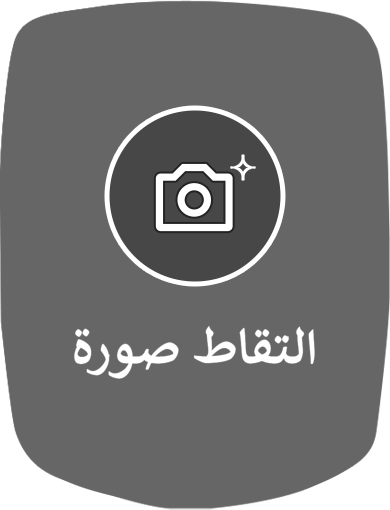
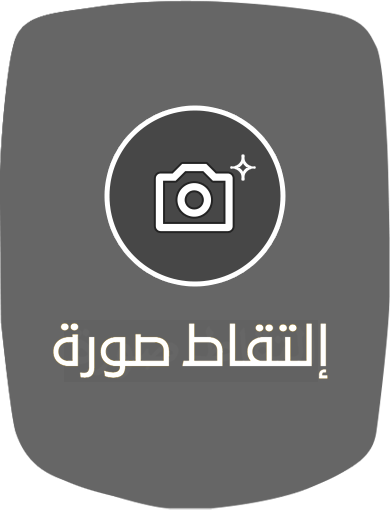
Updates
Updates

Changed region(s): [[0.1231, 0.6176, 0.8615, 0.7647]]

diff --git a/Scripts/lang.js b/Scripts/lang.js
@@ -21,7 +21,7 @@ $(document).ready(function(){
                 $('#content_flights').html("معلومات الرحلات");
                 $('#content_scan').html("مرر تذكرة صعود الطائرة");
                 $('#content_avatar').html("الصّورة الرّمزية");
-                $('#content_selfie').text("التقاط صورة");
+                $('#content_selfie').text("إلتقاط صورة");
                 $('#content_fly').hide();
               if(readCookie("lang")=="arabic"){
                 writeCookie("lang","arabic");
@@ -50,7 +50,7 @@ $(document).ready(function(){
                 $('#content_flights').html("معلومات الرحلات");
                 $('#content_scan').html("مرر تذكرة صعود الطائرة");
                 $('#content_avatar').html("الصّورة الرّمزية");
-                $('#content_selfie').text("التقاط صورة");
+                $('#content_selfie').text("إلتقاط صورة");
                 //$('#content_dance').html("صورتك في <br>الوجه الآلي");
               }
               else if(readCookie("lang")=="english"){
@@ -138,7 +138,7 @@ $(document).ready(function(){
                 $('#content_flights').html("معلومات الرحلات");
                 $('#content_scan').html("مرر تذكرة صعود الطائرة");
                 $('#content_avatar').html("الصّورة الرّمزية");
-                $('#content_selfie').text("التقاط صورة");
+                $('#content_selfie').text("إلتقاط صورة");
                
               });
               $('#content_fly').click(function(){
@@ -169,12 +169,19 @@ $(document).ready(function(){
       return false;
     });
     $("#info-popup").click(function () {
-      ShowPopup2('images/infographic.png');
+      
       if(readCookie("lang")=="english"){
         window.external.ChangeLanguage("en-gb");
         window.external.SetVolume(1);
         PlaySpeech("Here is some information about the new Muscat International Airport.");
-    }
+        ShowPopup2('images/infographic-en.jpg');
+      }
+      else if(readCookie("lang")=="arabic"){
+        window.external.ChangeLanguage("ar-eg");
+        SetVolume(0.4);
+        //PlaySpeech("Here is some information about the new Muscat International Airport.");
+        ShowPopup2('images/infographic-ar.jpg');
+      }
    
 
   });

diff --git a/Contents/shop/index-en.htm b/Contents/shop/index-en.htm
@@ -408,7 +408,7 @@ li.even{background-color: #f3ebf9;}
         <img onmousedown="return false" src="../../images/home-white-icon.png" onclick="GoHome()" class="img-home" alt="Responsive image">
       </div>
       <div class="col-sm-8" style="font-size: 40px;padding-top: 23px;color: #008a97;font-weight: bold;">
-        <a href="#" onmousedown="return false" id="change-us" style="">ENGLISH</a>|<a onmousedown="return false" id="change-ar" href="#" style="color: #008a97 !important;">غير اللغة |</a>
+        <a href="#" onmousedown="return false" id="change-us" style="">ENGLISH</a>|<a onmousedown="return false" id="change-ar" href="#" style="color: #008a97 !important;">عربي</a>
       </div>
     </div>
     <div class="body1">

diff --git a/Contents/eat/index.htm b/Contents/eat/index.htm
@@ -335,7 +335,7 @@ li.even{background-color: #f3ebf9;}
         <img onmousedown="return false" src="../../images/home-white-icon.png" onclick="GoHome()" class="img-home" alt="Responsive image">
       </div>
       <div class="col-sm-8" style="font-size: 40px;padding-top: 23px;color: #008a97;font-weight: bold;">
-        <a onmousedown="return false" href="#"  id="change-us" style="color: #008a97 !important;">ENGLISH</a>|<a onmousedown="return false" id="change-ar" href="#" style="">عربى </a>|
+        <a onmousedown="return false" href="#"  id="change-us" style="color: #008a97 !important;">ENGLISH</a>|<a onmousedown="return false" id="change-ar" href="#" style="">عربي</a>|
       </div>
     </div>
 

diff --git a/Contents/shop/index.htm b/Contents/shop/index.htm
@@ -425,7 +425,7 @@ li.even{background-color: #f3ebf9;}
         <img onmousedown="return false" src="../../images/home-white-icon.png" onclick="GoHome()" class="img-home" alt="Responsive image">
       </div>
       <div class="col-sm-8" style="font-size: 40px;padding-top: 23px;color: #008a97;font-weight: bold;">
-        <a href="#" onmousedown="return false" id="change-us" style="color: #008a97 !important;">ENGLISH</a>|<a onmousedown="return false" id="change-ar" href="#" style="">عربى</a>|
+        <a href="#" onmousedown="return false" id="change-us" style="color: #008a97 !important;">ENGLISH</a>|<a onmousedown="return false" id="change-ar" href="#" style="">عربي</a>
       </div>
     </div>
 

diff --git a/Contents/eat/index-us.htm b/Contents/eat/index-us.htm
@@ -314,7 +314,7 @@ li.even{background-color: #f3ebf9;}
         <img src="../../images/home-white-icon.png" onclick="GoHome()" class="img-home" alt="Responsive image">
       </div>
       <div class="col-sm-8" style="font-size: 40px;padding-top: 23px;color: #008a97;font-weight: bold;">
-        <a href="#" onmousedown="return false" id="change-us" style="">ENGLISH</a>|<a onmousedown="return false" id="change-ar" href="#" style="color: #008a97 !important;">عربى |</a>
+        <a href="#" onmousedown="return false" id="change-us" style="">ENGLISH</a>|<a onmousedown="return false" id="change-ar" href="#" style="color: #008a97 !important;">عربي</a>
       </div>
     </div>
 

diff --git a/Contents/TerminalMap/index.htm b/Contents/TerminalMap/index.htm
@@ -203,7 +203,7 @@ li, p { font: 12px/16px Arial, Helvetica, sans-serif; }
         <img onmousedown="return false" src="../../images/home-white-icon.png" onclick="GoHome()" class="img-home" alt="Responsive image">
       </div>
       <div class="col-sm-8" style="font-size: 40px;padding-top: 23px;font-weight: bold;">
-        <a onmousedown="return false" href="#"  id="change-us" style="">ENGLISH</a>|<a onmousedown="return false" id="change-ar" href="#" style="">عربى </a>|
+        <a onmousedown="return false" href="#"  id="change-us" style="">ENGLISH</a>|<a onmousedown="return false" id="change-ar" href="#" style="">عربي</a>
       </div>
     </div>
 

diff --git a/Contents/Flights/index.htm b/Contents/Flights/index.htm
@@ -155,7 +155,7 @@ function GoHome()
         <img src="../../images/home-white-icon.png" onclick="GoHome()" class="img-home" alt="Responsive image">
       </div>
       <div class="col-sm-8" style="font-size: 40px;padding-top: 20px;color: #008a97;font-weight: bold;">
-        <a href="#"  id="change-us" style="" onmousedown="return false">ENGLISH</a>|<a onmousedown="return false" id="change-ar" class="active" href="#" style="">عربى</a>  |
+        <a href="#"  id="change-us" style="" onmousedown="return false">ENGLISH</a>|<a onmousedown="return false" id="change-ar" class="active" href="#" style="">عربي</a>
       </div>
     </div>
 

diff --git a/Contents/Flights/flights_dep.htm b/Contents/Flights/flights_dep.htm
@@ -140,7 +140,7 @@ thead {
         <img src="../../images/home-white-icon.png" onclick="GoHome()" class="img-home" alt="Responsive image">
       </div>
       <div class="col-sm-8" style="font-size: 40px;padding-top: 20px;color: #008a97;font-weight: bold;">
-        <a href="#" onmousedown="return false" id="change-us" style="">ENGLISH</a>|<a onmousedown="return false" id="change-ar" href="#" style="">غير اللغة</a> |
+        <a href="#" onmousedown="return false" id="change-us" style="">ENGLISH</a>|<a onmousedown="return false" id="change-ar" href="#" style="">عربي</a>
       </div>
     </div>
   <div class="bmg">  

diff --git a/Contents/BoardingPass/index.htm b/Contents/BoardingPass/index.htm
@@ -267,7 +267,7 @@
         <img src="../../images/home-white-icon.png" onclick="GoHome()" class="img-home" alt="Responsive image">
       </div>
       <div class="col-sm-8" style="font-size: 40px;padding-top: 20px;color: #008a97;font-weight: bold;">
-        <a onmousedown="return false" href="#"  id="change-us" style="">ENGLISH</a>|<a onmousedown="return false" id="change-ar" href="#" style=";">عربى</a>
+        <a onmousedown="return false" href="#"  id="change-us" style="">ENGLISH</a>|<a onmousedown="return false" id="change-ar" href="#" style=";">عربي</a>
       </div>
     </div>
 

diff --git a/maincontents.htm b/maincontents.htm
@@ -68,7 +68,7 @@ UpdateSession(9);
         <img src="images/header-left-bg.png" width="360">
       </div>
       <div class="col-sm-8" style="font-size: 40px;padding-top: 28px;color: #008a97;font-weight: bold;">
-        <a href="#" onmousedown ="return false" id="change-us"  style=";">ENGLISH</a>|<a onmousedown ="return false" id="change-ar" href="#" style="" class="">عربى</a>
+        <a href="#" onmousedown ="return false" id="change-us"  style=";">ENGLISH</a>|<a onmousedown ="return false" id="change-ar" href="#" style="" class="">عربي</a>
       </div>
     </div>
 

diff --git a/Contents/PhotoPrinting/index.html b/Contents/PhotoPrinting/index.html
@@ -141,7 +141,7 @@
         <img src="../../images/home-white-icon.png" onclick="GoHome()" class="img-home" alt="Responsive image">
       </div>
       <div class="col-sm-8" style="font-size: 40px;padding-top: 23px;color: #008a97;font-weight: bold;">
-        <a href="#"  id="change-us" style="" class="active">ENGLISH</a>|<a  id="change-ar" href="#" style="" class="">عربى</a> |
+        <a href="#"  id="change-us" style="" class="active">ENGLISH</a>|<a  id="change-ar" href="#" style="" class="">عربي</a>
       </div>
     </div>
 

diff --git a/Contents/RobotAvatar/index.htm b/Contents/RobotAvatar/index.htm
@@ -83,7 +83,7 @@
         <img src="../../images/home-white-icon.png" onclick="Home()" class="img-home" alt="Responsive image">
       </div>
       <div class="col-sm-8" style="font-size: 40px;padding-top: 23px;color: #008a97;font-weight: bold;">
-        <a href="#"  id="change-us" style="">ENGLISH</a> | <a  id="change-ar" href="#" class="active">عربى</a> |
+        <a href="#"  id="change-us" style="">ENGLISH</a> | <a  id="change-ar" href="#" class="active">عربي</a>
       </div>
     </div>
 
